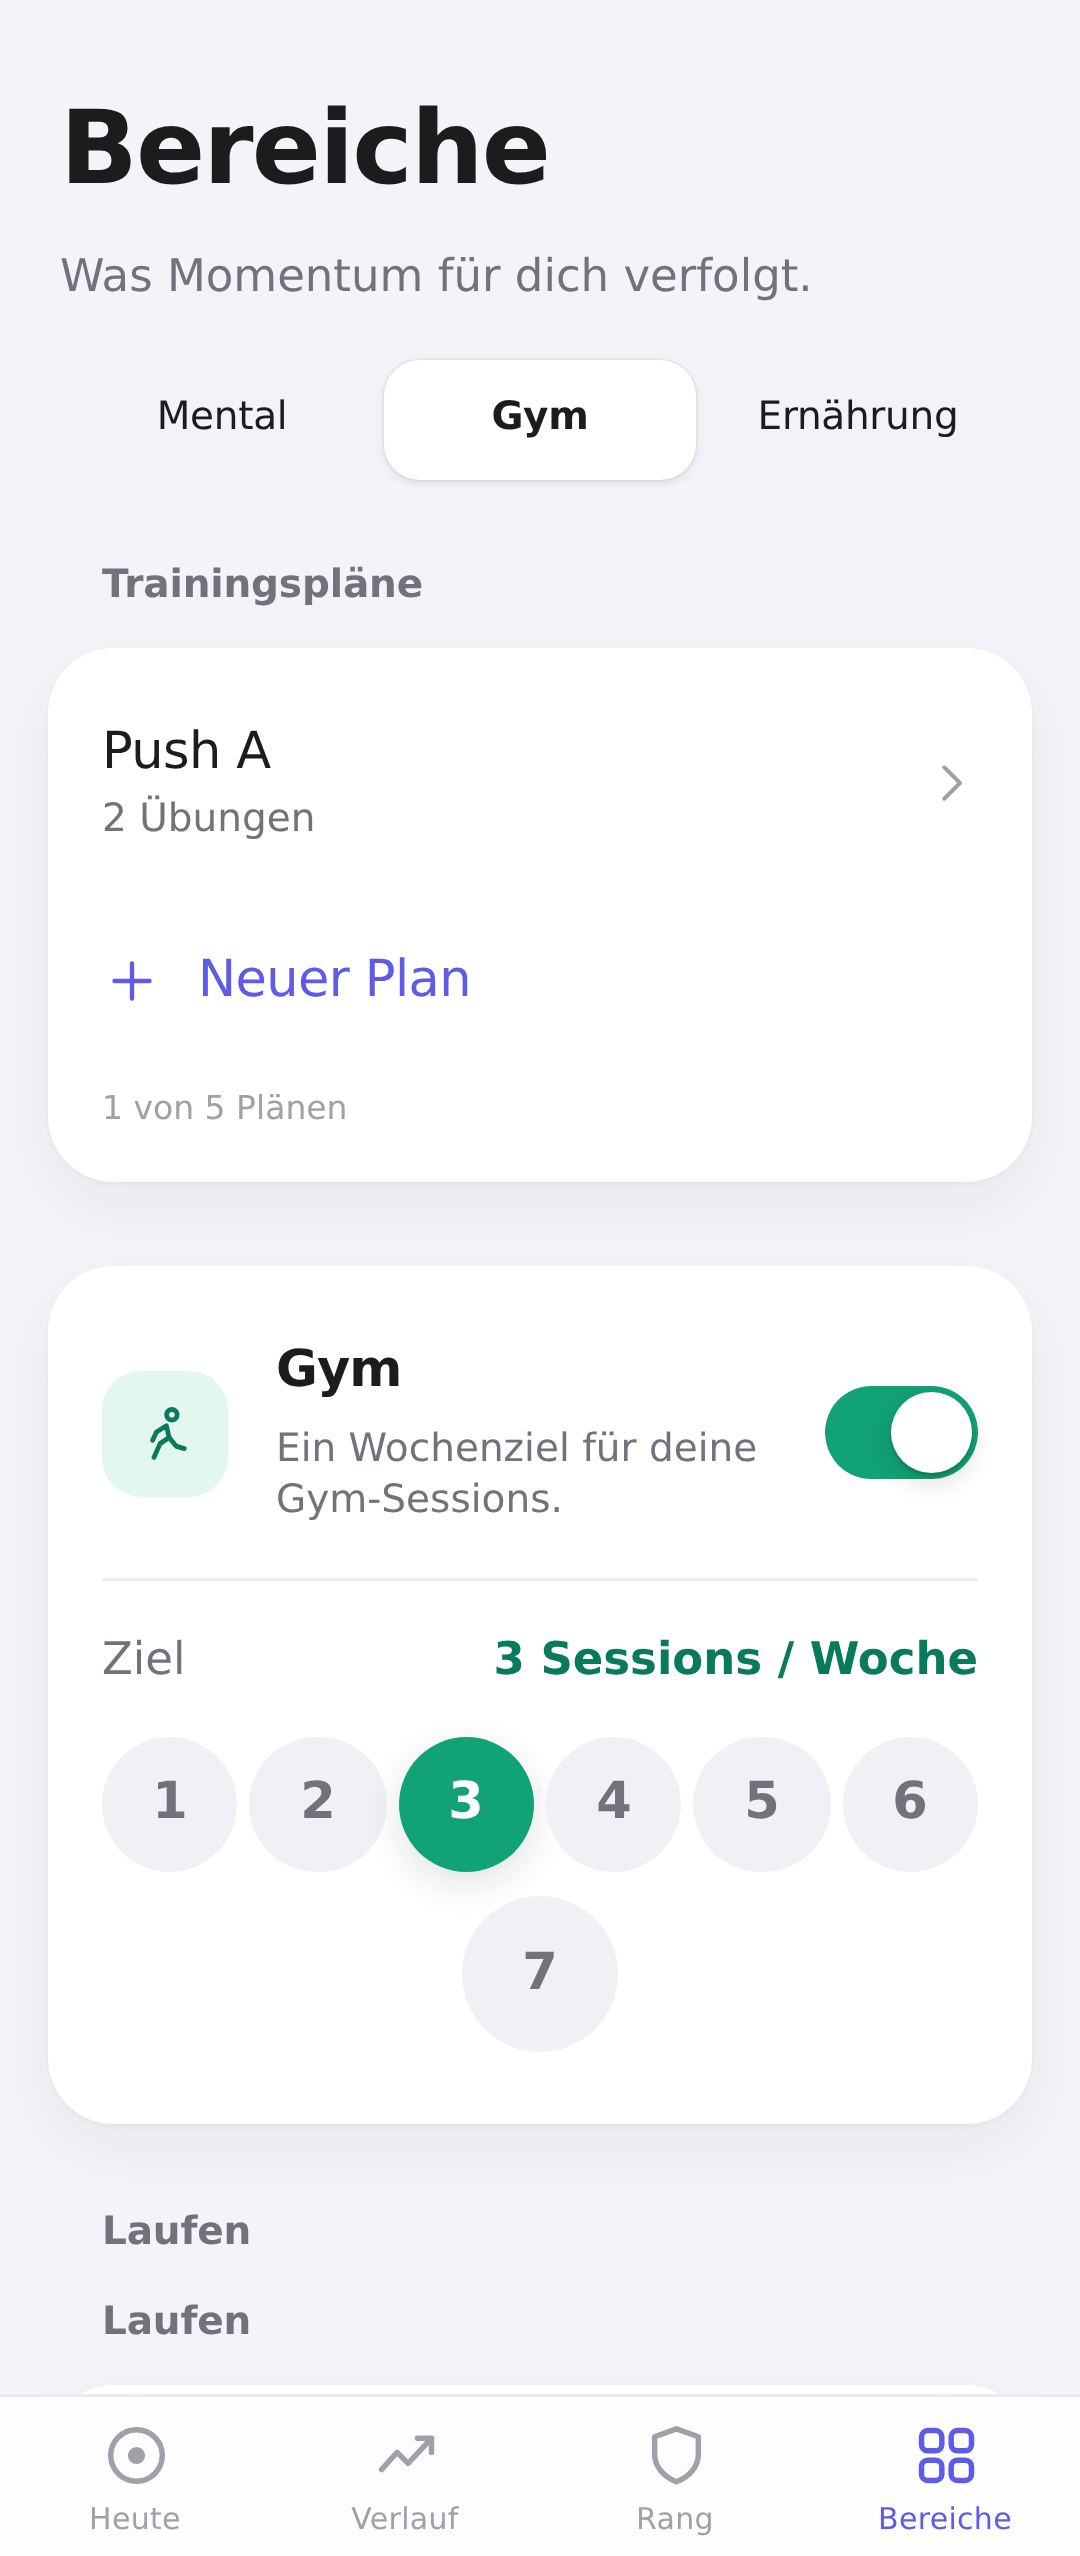
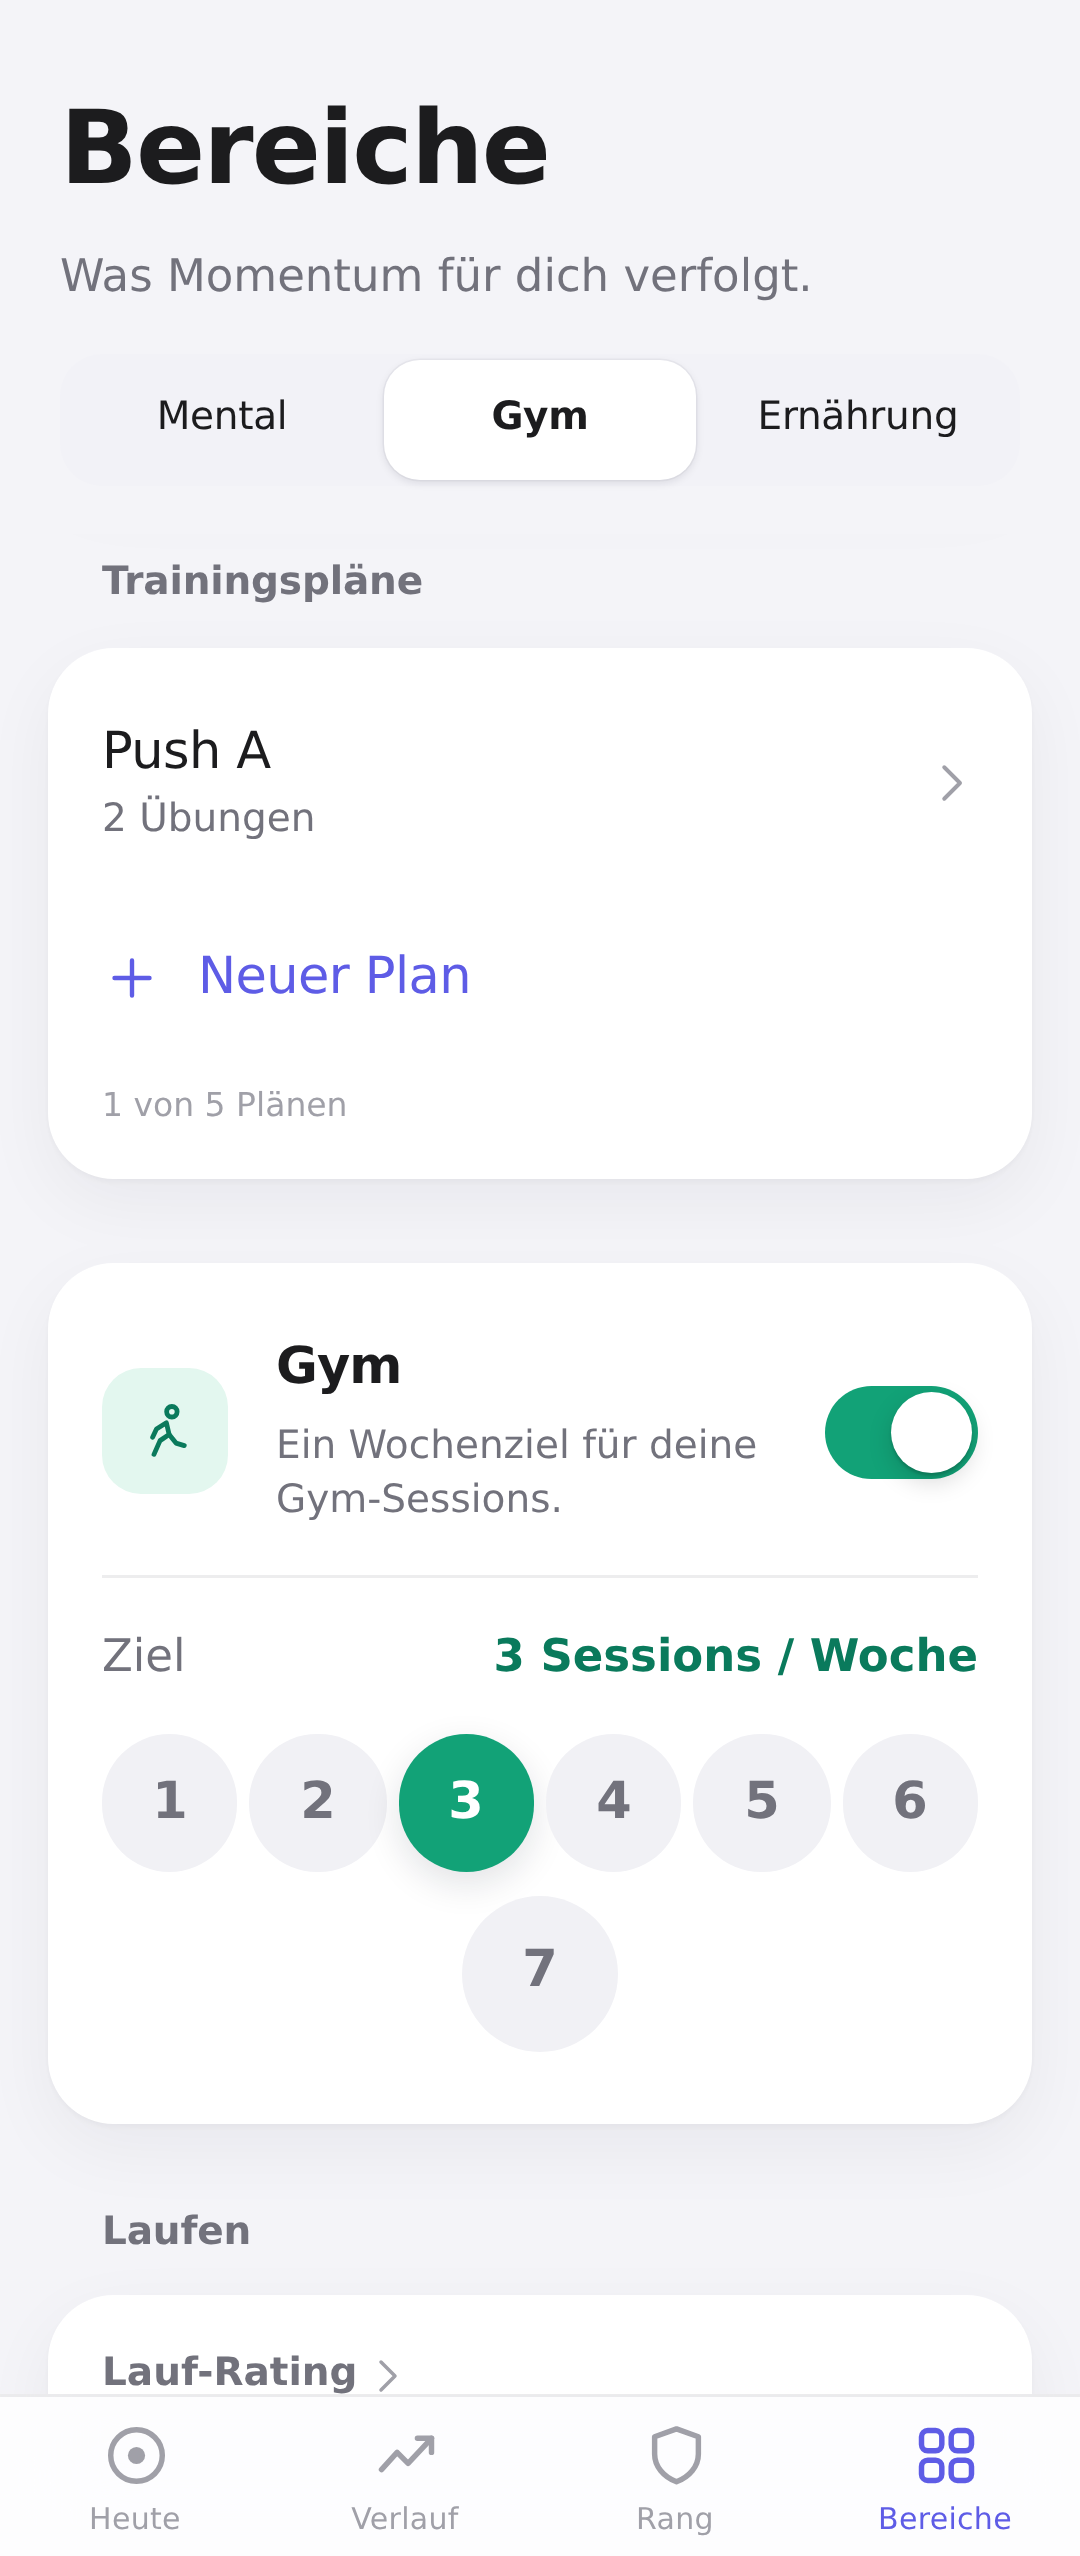
WP2 polish: six approved findings, presentation only
- Set row inputs size from content: weight never below five characters,
  reps never below two, padding two steps below the shared field
  (one step still left two-digit reps 6px short at 360), minimums
  released under 360px. A pending row closes its card without a hairline.
- Muscle destination no-data guidance: state line above the hint inside
  the one status paragraph.
- RunningTerminal carries no heading; its only host titles the block.
- Muscle entry card carries no section label; summary copy shortened to
  fit one line at 393 ("8 von 10 gewertet"). Button name unchanged.
- No helper sentence beneath a pending set row; the row is the
  instruction. Unused key removed.
- Counts are figures: "1 Übung" / "1 exercise".
- Suites assert each change; before/after pairs in docs/design/wp2-polish.

Claude-Session: https://claude.ai/code/session_015fAT3kdqgGygT9pEWBKmVm

diff --git a/src/features/gym/gym.css b/src/features/gym/gym.css
@@ -198,6 +198,43 @@
   width: 100%;
   text-align: right;
   font-variant-numeric: tabular-nums;
+  /* Two steps below the shared field padding. At 360px the two inputs have
+     119px between them; "102.5" and a two-digit rep count need 71px of
+     glyphs plus two borders each, so 16px a side (64px of air) clipped the
+     weight and 12px a side (48px) still left the reps 6px short. 8px fits
+     both with room to spare. */
+  padding-inline: var(--space-2);
+}
+
+/* The two fields size from their content instead of splitting the row in
+   half: the reps unit ("Wdh.") is wider than the weight unit ("kg"), and
+   an equal split starved the field that holds the longer value. The weight
+   input never goes below five characters — "102.5" — and the reps input
+   below two, each plus its padding; whatever is left is shared, the larger
+   part to the weight. */
+.gym-set__field {
+  flex: 2 1 auto;
+}
+
+.gym-set__field:last-of-type {
+  flex: 3 1 auto;
+}
+
+.gym-set__field .gym-set__input {
+  min-width: calc(2ch + 2 * var(--space-2));
+}
+
+.gym-set__field:last-of-type .gym-set__input {
+  min-width: calc(5ch + 2 * var(--space-2));
+}
+
+/* Below 360px the row cannot hold both minimums; the fields shrink as they
+   always did there rather than push the row out of the card. */
+@media (max-width: 359px) {
+  .gym-set__field .gym-set__input,
+  .gym-set__field:last-of-type .gym-set__input {
+    min-width: 0;
+  }
 }
 
 .gym-set__unit {
@@ -467,6 +504,12 @@
 
 .gym-set--pending .gym-set__input::placeholder {
   color: var(--text-tertiary);
+}
+
+/* With no sentence beneath it, a pending row closes the card: no hairline
+   between it and the card's own padding. */
+.gym-set--pending:last-child {
+  border-bottom: none;
 }
 
 .gym-set__remove--spacer {

diff --git a/src/i18n/de.ts b/src/i18n/de.ts
@@ -684,7 +684,7 @@ export const de = {
     'Ein Trainingsplan ist eine Liste von Übungen, die du regelmässig zusammen trainierst. Beispiel: Push, Pull, Legs, Full Body oder Upper Body. Du kannst bis zu 5 Pläne speichern und sie frei benennen.',
   'plans.new': 'Neuer Plan',
   'plans.count': '{count} Übungen',
-  'plans.countOne': 'Eine Übung',
+  'plans.countOne': '1 Übung',
   'plans.limit': 'Maximal {max} Pläne. Lösche einen Plan, um Platz für einen neuen zu schaffen.',
   'plans.slots': '{used} von {max} Plänen',
   'plans.editor.new': 'Neuer Trainingsplan',
@@ -708,7 +708,6 @@ export const de = {
   'plans.chooser.free': 'Freie Session',
   'plans.chooser.freeHint': 'Übungen während der Session wählen.',
   'plans.chooser.manage': 'Pläne verwalten',
-  'gym.exercise.pending': 'Noch kein Satz. Trage Wiederholungen und Gewicht ein.',
   'gym.exercise.extra': 'Zusätzlich',
   'gym.lastTime': 'Zuletzt am {date}',
   'gym.lastTime.set': '{reps} × {weight} kg',
@@ -731,9 +730,9 @@ export const de = {
   'gymHub.plans.manage': 'Pläne verwalten',
   'gymHub.muscles.title': 'Muskelgruppen',
   'gymHub.muscles.open': 'Muskelgruppen öffnen',
-  'gymHub.muscles.summary': '{count} von {total} Gruppen gewertet',
+  'gymHub.muscles.summary': '{count} von {total} gewertet',
   'gymHub.muscles.overall': 'Gesamt {change}',
-  'gymHub.muscles.trained': '{count} von {total} Gruppen trainiert',
+  'gymHub.muscles.trained': '{count} von {total} trainiert',
   'gymHub.muscles.none': 'Noch nicht trainiert',
   'gymHub.muscles.noneHint': 'Nach deiner ersten Session siehst du hier, wie sich deine Muskelgruppen entwickeln.',
   'gymHub.muscles.range': 'Letzte {days} Tage',

diff --git a/src/i18n/en.ts b/src/i18n/en.ts
@@ -677,7 +677,7 @@ export const en: Translations = {
     'A training plan is a list of exercises you regularly train together. For example: Push, Pull, Legs, Full Body or Upper Body. You can save up to 5 plans and name them as you like.',
   'plans.new': 'New plan',
   'plans.count': '{count} exercises',
-  'plans.countOne': 'One exercise',
+  'plans.countOne': '1 exercise',
   'plans.limit': 'At most {max} plans. Delete a plan to make room for a new one.',
   'plans.slots': '{used} of {max} plans',
   'plans.editor.new': 'New training plan',
@@ -701,7 +701,6 @@ export const en: Translations = {
   'plans.chooser.free': 'Free session',
   'plans.chooser.freeHint': 'Pick exercises during the session.',
   'plans.chooser.manage': 'Manage plans',
-  'gym.exercise.pending': 'No set yet. Enter reps and weight.',
   'gym.exercise.extra': 'Extra',
   'gym.lastTime': 'Last time on {date}',
   'gym.lastTime.set': '{reps} × {weight} kg',
@@ -724,9 +723,9 @@ export const en: Translations = {
   'gymHub.plans.manage': 'Manage plans',
   'gymHub.muscles.title': 'Muscle groups',
   'gymHub.muscles.open': 'Open muscle groups',
-  'gymHub.muscles.summary': '{count} of {total} groups counted',
+  'gymHub.muscles.summary': '{count} of {total} counted',
   'gymHub.muscles.overall': 'Overall {change}',
-  'gymHub.muscles.trained': '{count} of {total} groups trained',
+  'gymHub.muscles.trained': '{count} of {total} trained',
   'gymHub.muscles.none': 'Not trained yet',
   'gymHub.muscles.noneHint': 'After your first session you will see here how your muscle groups develop.',
   'gymHub.muscles.range': 'Last {days} days',

diff --git a/src/features/gym/gymHub.test.tsx b/src/features/gym/gymHub.test.tsx
@@ -37,6 +37,9 @@ describe('the muscle entry card before the first workout', () => {
   it('is one named button that says there is no data, and colours nothing as progress', () => {
     for (const html of [render(null), render(emptyHistory())]) {
       expect(html).toMatch(/<button[^>]*aria-label="Muskelgruppen öffnen"/);
+      // The card names itself once: no grey section label repeating it.
+      expect(html).not.toContain('section__label');
+      expect(html.match(/>Muskelgruppen</g)?.length ?? 0).toBe(1);
       expect(html).toContain(de['gymHub.muscles.none']);
       expect(html).toContain(de['gymHub.muscles.noneHint']);
       // The preview is a picture, hidden from assistive technology: a still
@@ -65,7 +68,7 @@ describe('the muscle entry card before the first workout', () => {
       awaitingBodyweight: [],
     };
     const html = render(history);
-    expect(html).toContain('1 von 10 Gruppen gewertet');
+    expect(html).toContain('1 von 10 gewertet');
     expect(html).toContain('Gesamt +10 %');
     expect(html).toContain('Letzte 30 Tage');
     expect(html).not.toContain(de['gymHub.muscles.none']);

diff --git a/src/features/areas/RunningTerminal.tsx b/src/features/areas/RunningTerminal.tsx
@@ -1,5 +1,3 @@
-import { Section } from '../../components';
-import { useT } from '../../i18n/I18nProvider';
 import { RunningOverview } from '../running/RunningOverview';
 import { useRunningRating } from '../running/useRunningRating';
 
@@ -11,14 +9,12 @@ import { useRunningRating } from '../running/useRunningRating';
  * from its runs, so it loads on its own and an empty Gym says nothing about
  * it. Before the first run there is nothing to show a rating of, and the
  * card below is where the weekly target is set.
+ *
+ * It carries no heading of its own: its one host, the Areas screen, already
+ * titles the block "Laufen", and the boards inside label themselves.
  */
 export function RunningTerminal() {
-  const t = useT();
   const rating = useRunningRating();
   if (!rating?.started) return null;
-  return (
-    <Section label={t('running.progress.title')}>
-      <RunningOverview state={rating.state} started={rating.started} />
-    </Section>
-  );
+  return <RunningOverview state={rating.state} started={rating.started} />;
 }

diff --git a/src/features/gym/GymSessionScreen.tsx b/src/features/gym/GymSessionScreen.tsx
@@ -672,9 +672,10 @@ export function GymSessionScreen({
                     />
                   ) : null}
 
-                  {pending ? (
-                    <p className="gym-exercise__best">{t('gym.exercise.pending')}</p>
-                  ) : entry.bestScore !== null ? (
+                  {/* A pending row is its own instruction — the numbered row,
+                      "Wdh." and "kg" say what goes where — so no sentence
+                      repeats it beneath every exercise. */}
+                  {pending ? null : entry.bestScore !== null ? (
                     <p className="gym-exercise__best">
                       {t('gym.bestSet')} ·{' '}
                       {t('gym.bestSetValue', {

diff --git a/src/features/gym/GymProgress.tsx b/src/features/gym/GymProgress.tsx
@@ -107,7 +107,8 @@ export function GymProgress({ history }: { history: GymHistory }) {
       <Section label={t('gym.progress.muscles')}>
         <Card>
           <p className="gym-progress__noData" role="status">
-            {t('gymHub.muscles.none')} {t('gymHub.muscles.noneHint')}
+            <span className="gym-progress__noDataState">{t('gymHub.muscles.none')}</span>{' '}
+            <span className="gym-progress__noDataHint">{t('gymHub.muscles.noneHint')}</span>
           </p>
           <MuscleModule
             muscles={history.overall.muscles}

diff --git a/src/features/gym/gymHub.css b/src/features/gym/gymHub.css
@@ -160,3 +160,17 @@
   line-height: 1.4;
   padding: 0 var(--card-pad) var(--space-3);
 }
+
+/* The state on its own line, the hint beneath it: one status for assistive
+   technology, two lines for the eye. */
+.gym-progress__noDataState,
+.gym-progress__noDataHint {
+  display: block;
+}
+
+.gym-progress__noDataState {
+  font-size: var(--type-subhead);
+  font-weight: var(--weight-semibold);
+  color: var(--text-primary);
+  padding-bottom: var(--space-1);
+}

diff --git a/src/features/gym/MuscleEntryCard.tsx b/src/features/gym/MuscleEntryCard.tsx
@@ -71,7 +71,9 @@ export function MuscleEntryCard({
       : null;
 
   return (
-    <Section label={t('gymHub.muscles.title')}>
+    // No section label: the card names itself, and it is the section's only
+    // card, so a grey "Muskelgruppen" above a bold one was the same word twice.
+    <Section>
       <button
         type="button"
         className="card gym-hub__muscles"

diff --git a/HANDOVER.md b/HANDOVER.md
@@ -185,9 +185,16 @@ records (answers, sessions, sets, snapshots)
 - The training line is the same two stored values read three ways — a
   fraction only below target, *Ziel erreicht* at it, *· Ziel n* above it —
   so "7 von 3" never appears (`weekSentence` in `TrainingCard.tsx`).
-- Pre-existing, untouched: the "Laufen" label is rendered twice in the Gym
-  area (the section heading and `RunningTerminal`'s own), as in the
-  muscle-map QA screenshots.
+- Polish pass before merge (six approved findings, presentation only): the
+  set row's inputs size from their content — the weight input never below
+  five characters, the reps input never below two, padding two steps below
+  the shared field's, minimums released under 360px; the no-data guidance on
+  the muscle destination is a state line over a hint inside one status; the
+  entry card carries no section label (it names itself); the pending set
+  row has no helper sentence beneath it (the row is the instruction);
+  counts are figures everywhere (`1 Plan`, `1 Übung`); and the "Laufen"
+  heading that `RunningTerminal` repeated under the area's own is gone.
+  Before/after pairs: `docs/design/wp2-polish/`.
 
 **Infrastructure only — built, tested, not reachable from any screen**
 - Rest days, pause periods, tombstones, profile: stores +
